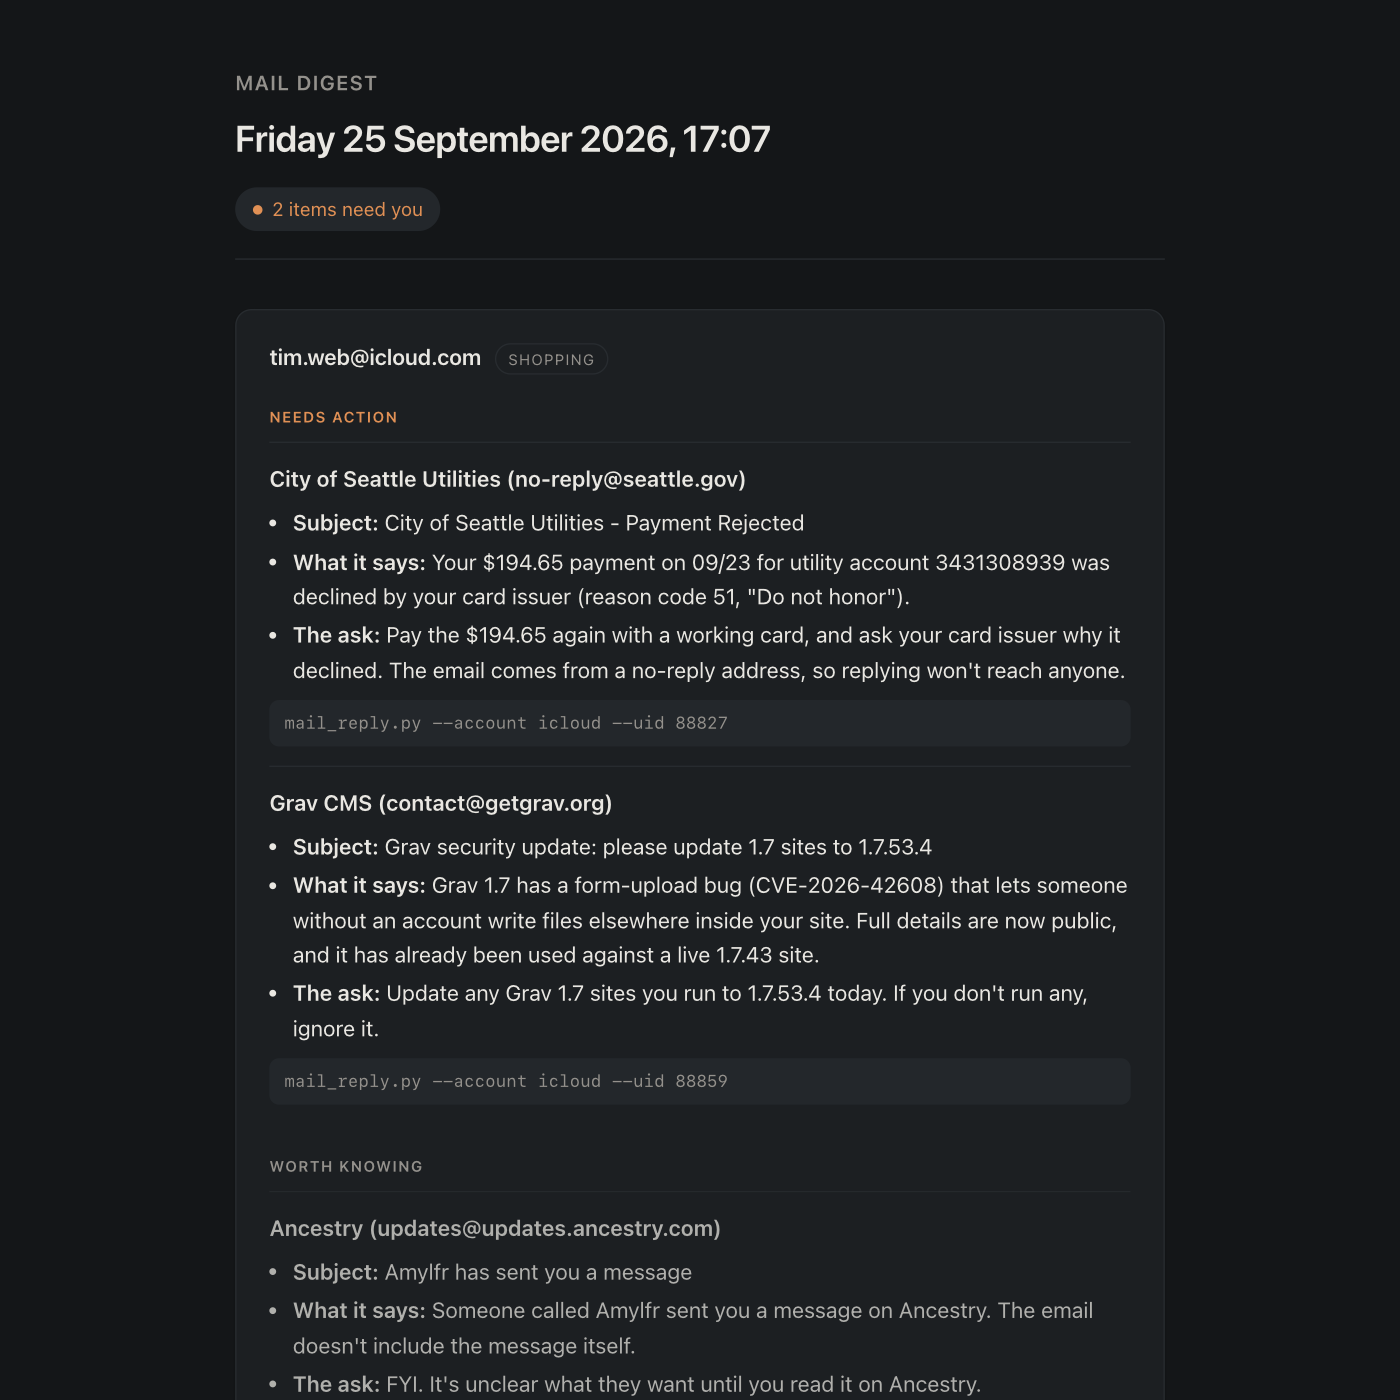
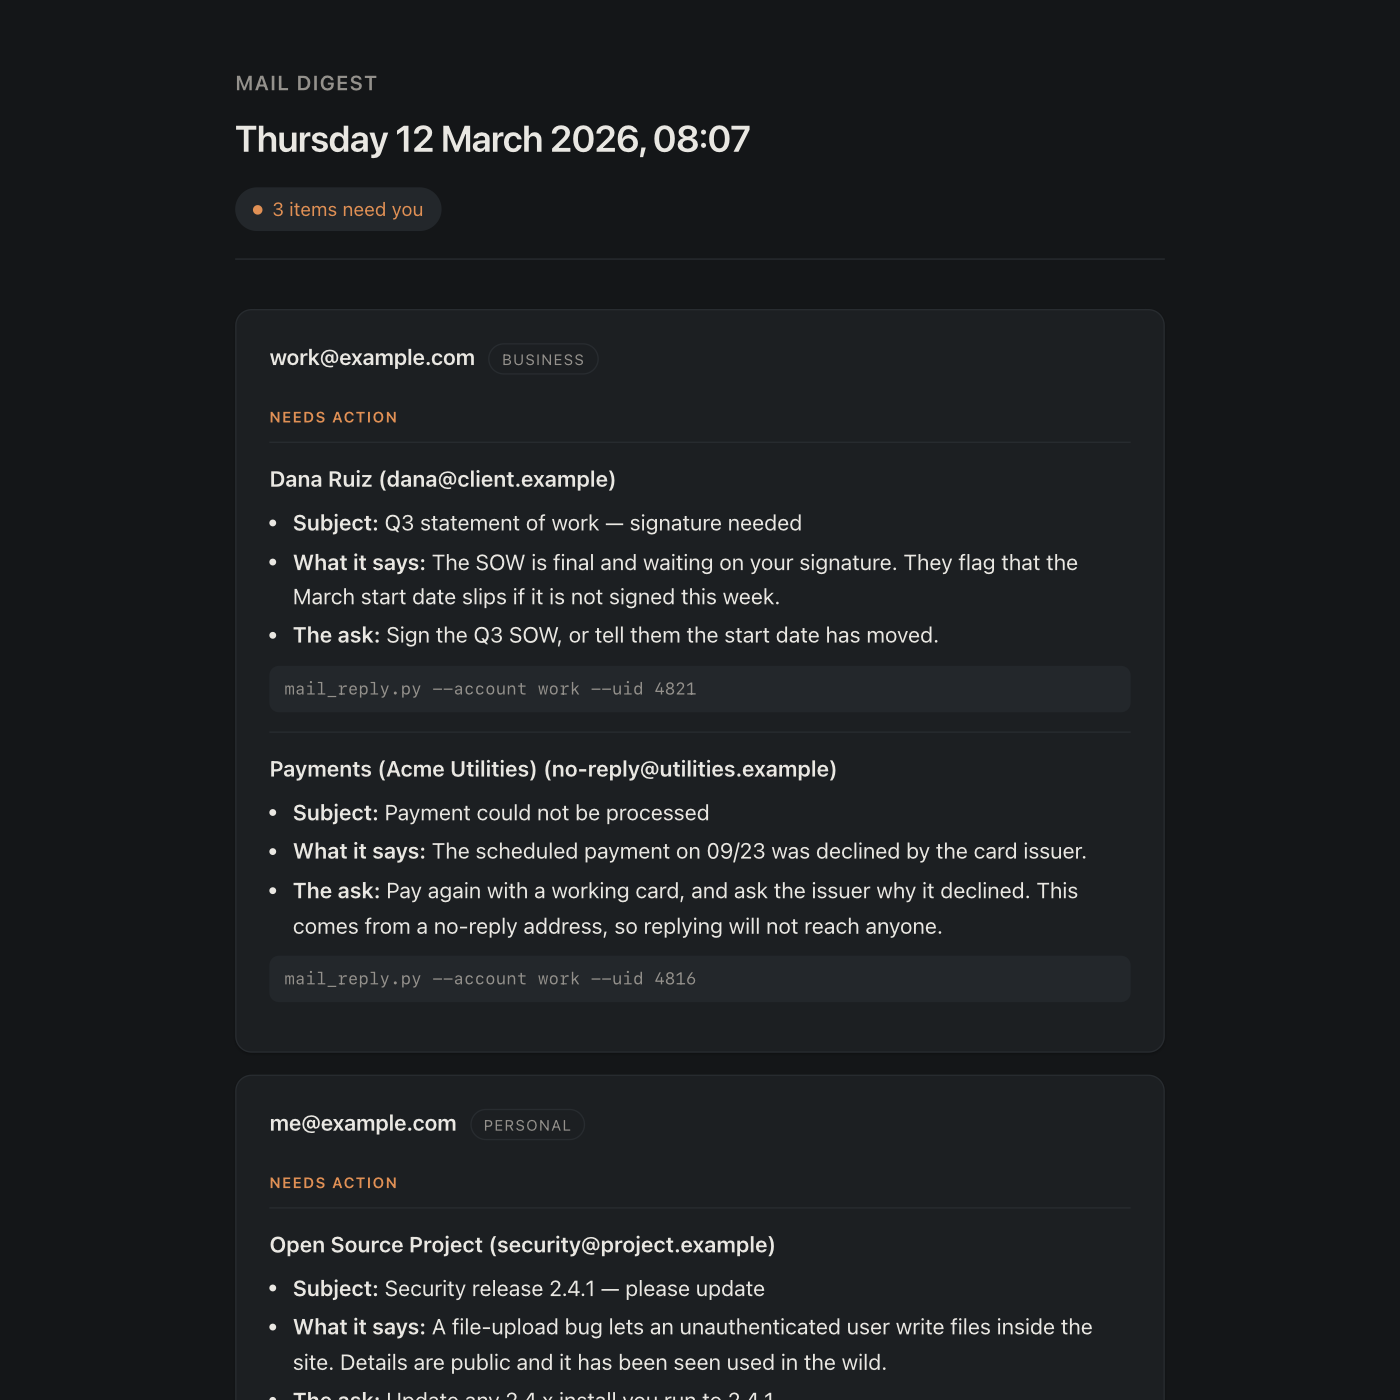
Add MIT licence and replace the screenshot with sample data
The README screenshot was rendered from a real digest. It showed an
alias, the vendors behind several messages, and a utility account
number -- fine while the repository was private, not fine in public.
It is now generated from fabricated mail on RFC 2606 reserved domains.

MIT, copyright Tim Knab. Nothing in the code needs hiding: credentials
live in the Keychain, accounts.json was never committed and is ignored,
and "read-only by construction" is a claim that is better in the open,
where anyone can check it.

diff --git a/README.md b/README.md
@@ -25,6 +25,7 @@ address the message was sent to**. It cannot send.
 
 **The digest** — grouped by the inbox each message arrived at, needs-action
 accented, worth-knowing dimmed, every draft command a click-to-select chip.
+(Sample data; the real thing shows your mail.)
 
 ![Digest](docs/screenshot-digest.png)
 
@@ -130,6 +131,12 @@ done
 ```
 
 No network and no mailbox required.
+
+---
+
+## Licence
+
+[MIT](LICENSE) — Copyright (c) 2026 Tim Knab.
 
 ---
 
